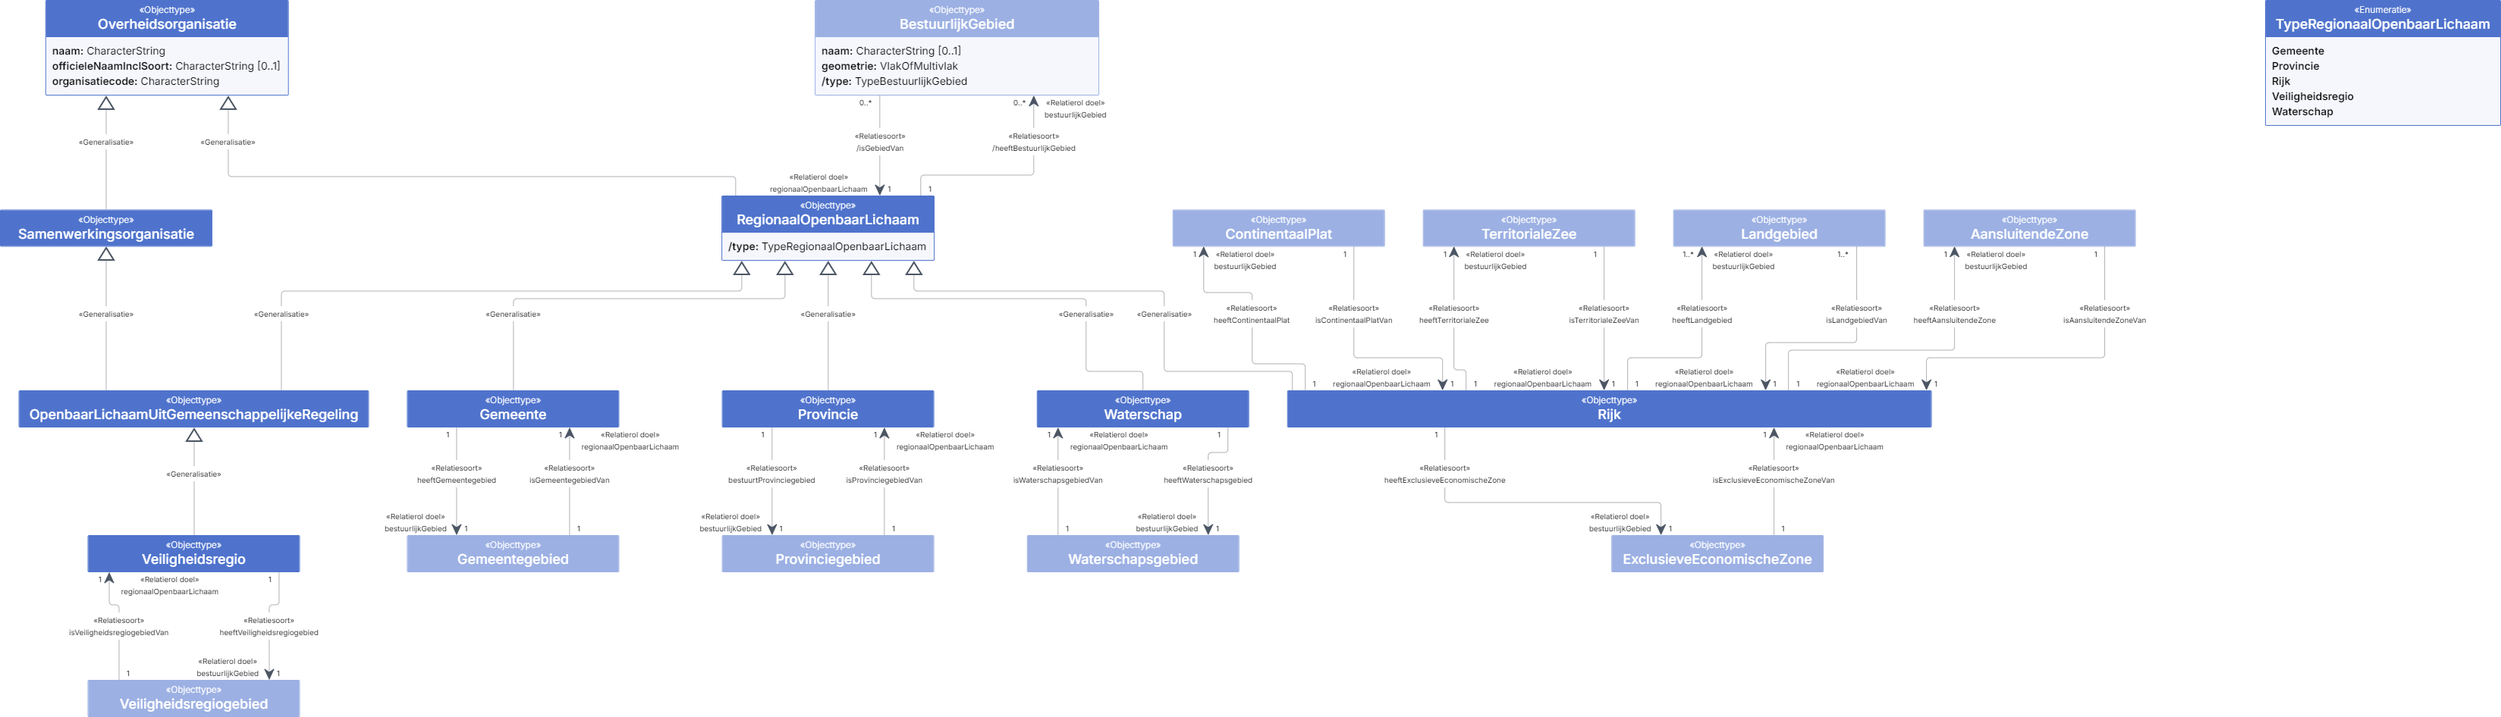
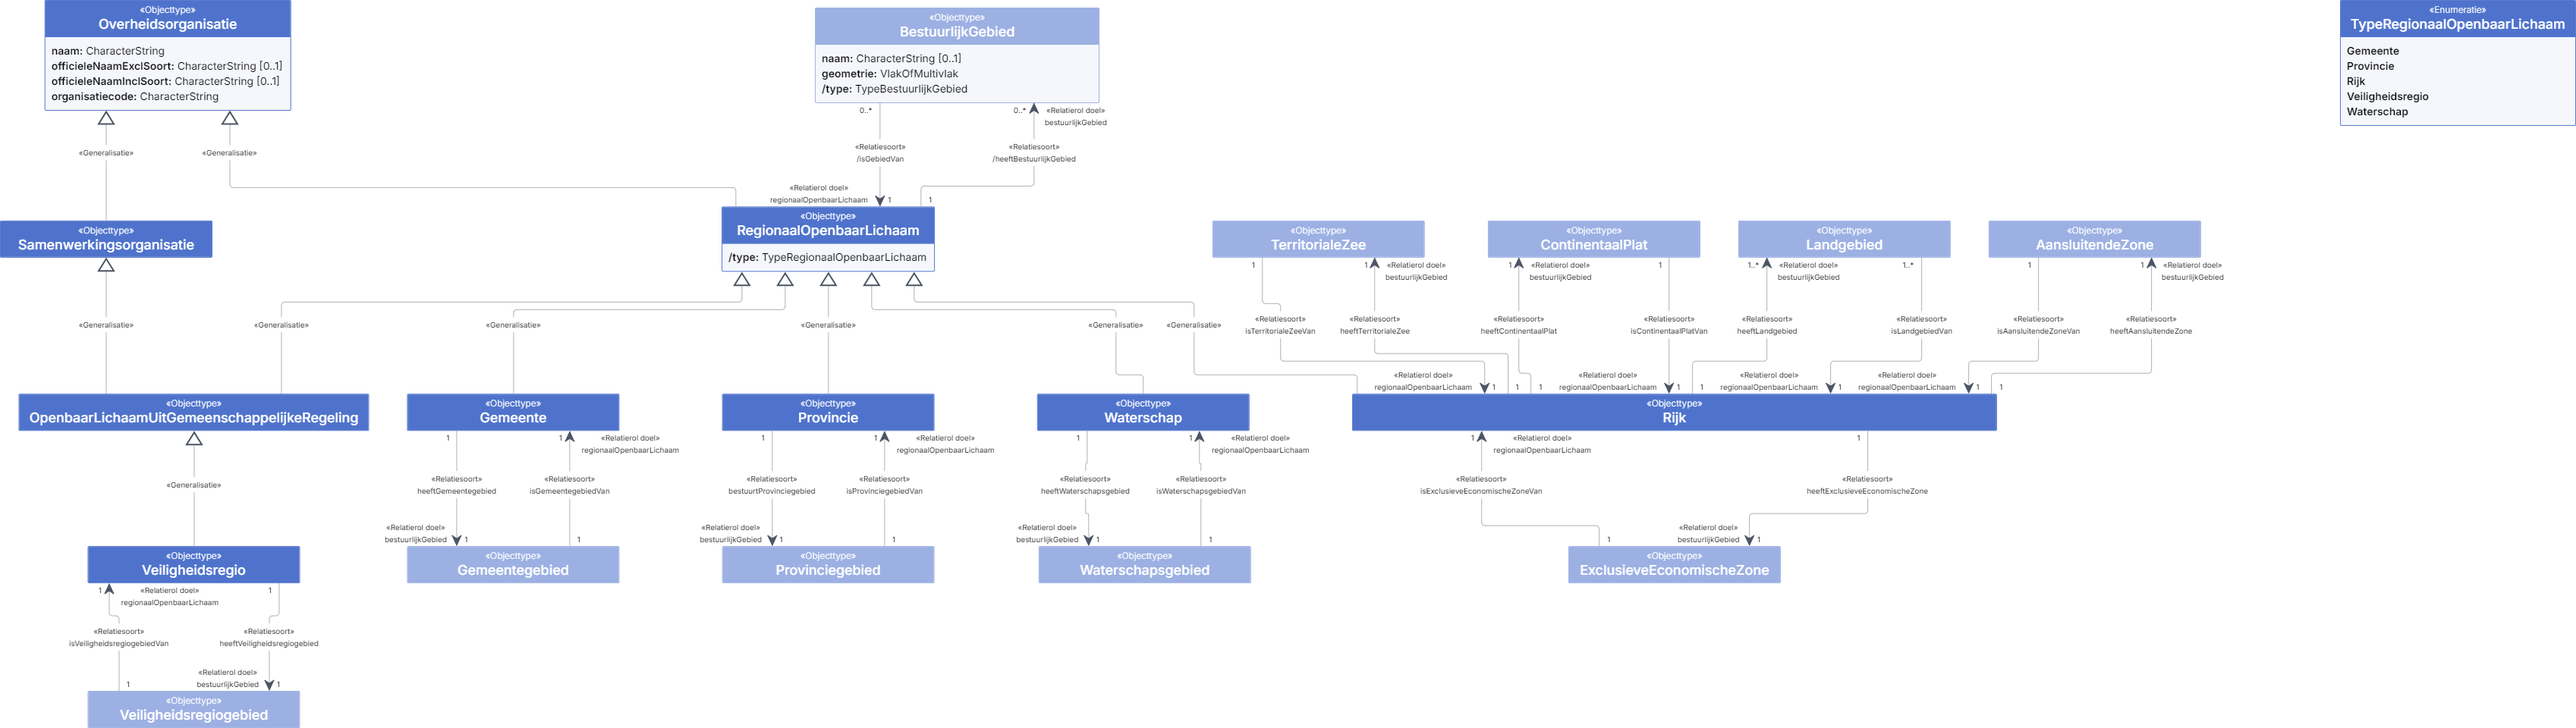
Update docs

diff --git a/data/model.md b/data/model.md
@@ -1641,6 +1641,8 @@ Relatie die aangeeft dat dit object een veiligheidsregiogebied van een regionaal
 
 #### MaritiemeZone {#informatiemodel_cim_bg_domein_bestuurlijk_gebied_objecttype_maritieme_zone}
 
+<div data-include-format="markdown" data-include="data/maritieme-zone-detail.md"></div>
+
 <table style="width: 100%">
 <colgroup style="width: 30%"></colgroup>
 <colgroup style="width: 70%"></colgroup>
@@ -2721,6 +2723,19 @@ De voorkeursnaam van de organisatie</td>
 </tr>
 <tr>
 <td>
+<a class="link" href="#informatiemodel_cim_bg_domein_openbaar_lichaam_objecttype_overheidsorganisatie_attribuutsoort_officiele_naam_excl_soort">officieleNaamExclSoort</a>
+</td>
+<td>
+De officiële naam van de organisatie zonder soortaanduiding, bijvoorbeeld ''s-Gravenhage'</td>
+<td>
+<a class="external-link" href="https://docs.geostandaarden.nl/mim/mim/#primitief-datatype-1"> CharacterString</a>
+</td>
+<td>
+0..1</td>
+</tr>
+<tr>
+<tr>
+<td>
 <a class="link" href="#informatiemodel_cim_bg_domein_openbaar_lichaam_objecttype_overheidsorganisatie_attribuutsoort_officiele_naam_incl_soort">officieleNaamInclSoort</a>
 </td>
 <td>
@@ -2788,6 +2803,55 @@ De organisatiecode.</td>
 <tr>
 <th>Kardinaliteit</th>
 <td>1</td>
+</tr>
+<tr>
+<th>Indicatie classificerend</th>
+<td>Nee</td>
+</tr>
+<tbody>
+</tbody>
+</table>
+</section>
+<section class="notoc" id="informatiemodel_cim_bg_domein_openbaar_lichaam_objecttype_overheidsorganisatie_attribuutsoort_officiele_naam_excl_soort">
+<h6>officieleNaamExclSoort</h6>
+<table style="width: 100%">
+<colgroup style="width: 30%"></colgroup>
+<colgroup style="width: 70%"></colgroup>
+<tr>
+<th>Identificatie</th>
+<td>https://identifier.overheid.nl/tooi/def/ont/officieleNaamExclSoort</td>
+</tr>
+<tr>
+<th>Naam</th>
+<td>officieleNaamExclSoort</td>
+</tr>
+<tr>
+<th>Alias</th>
+<td>Officiële naam exclusief soort</td>
+</tr>
+<tr>
+<th>Herkomst</th>
+<td>TOOI - Ontologie 1.6.2</td>
+</tr>
+<tr>
+<th>Definitie</th>
+<td>De officiële naam van de organisatie zonder soortaanduiding, bijvoorbeeld ''s-Gravenhage'</td>
+</tr>
+<tr>
+<th>Herkomst definitie</th>
+<td>TOOI - Ontologie 1.6.2</td>
+</tr>
+<tr>
+<th>Datum opname</th>
+<td>2026-02-04</td>
+</tr>
+<tr>
+<th>Identificerend</th>
+<td>Nee</td>
+</tr>
+<tr>
+<th>Kardinaliteit</th>
+<td>0..1</td>
 </tr>
 <tr>
 <th>Indicatie classificerend</th>

diff --git a/data/maritieme-zone-detail.md b/data/maritieme-zone-detail.md
@@ -1,0 +1,1 @@
+![Maritieme zone - detail](data/media/maritieme_zone-detail.png "Maritieme zone - detail")
